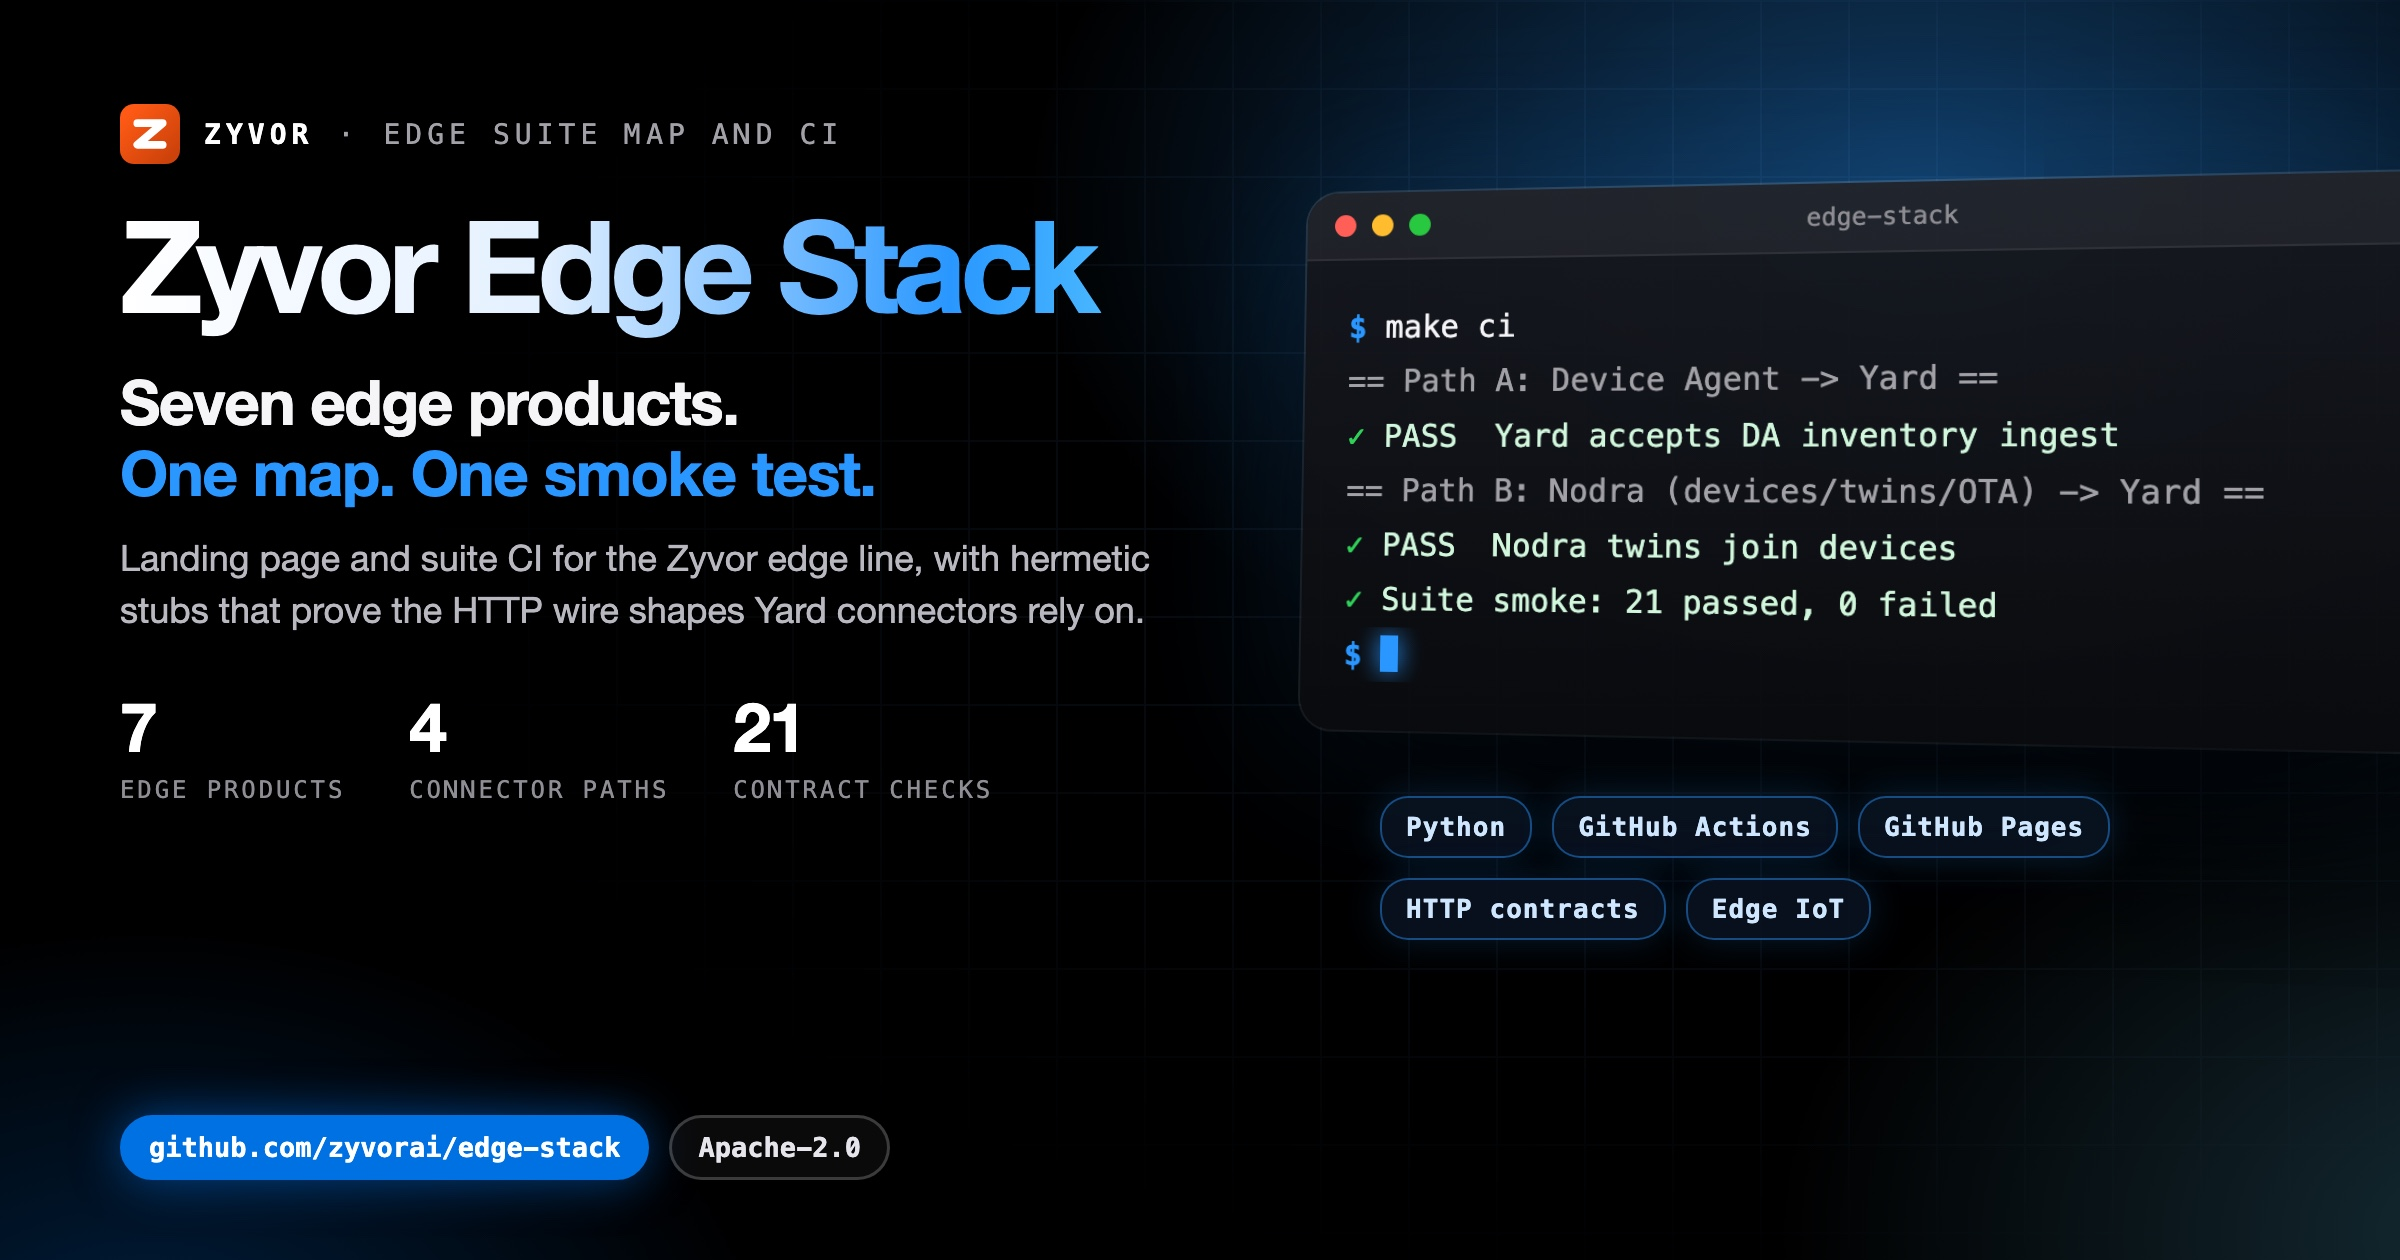
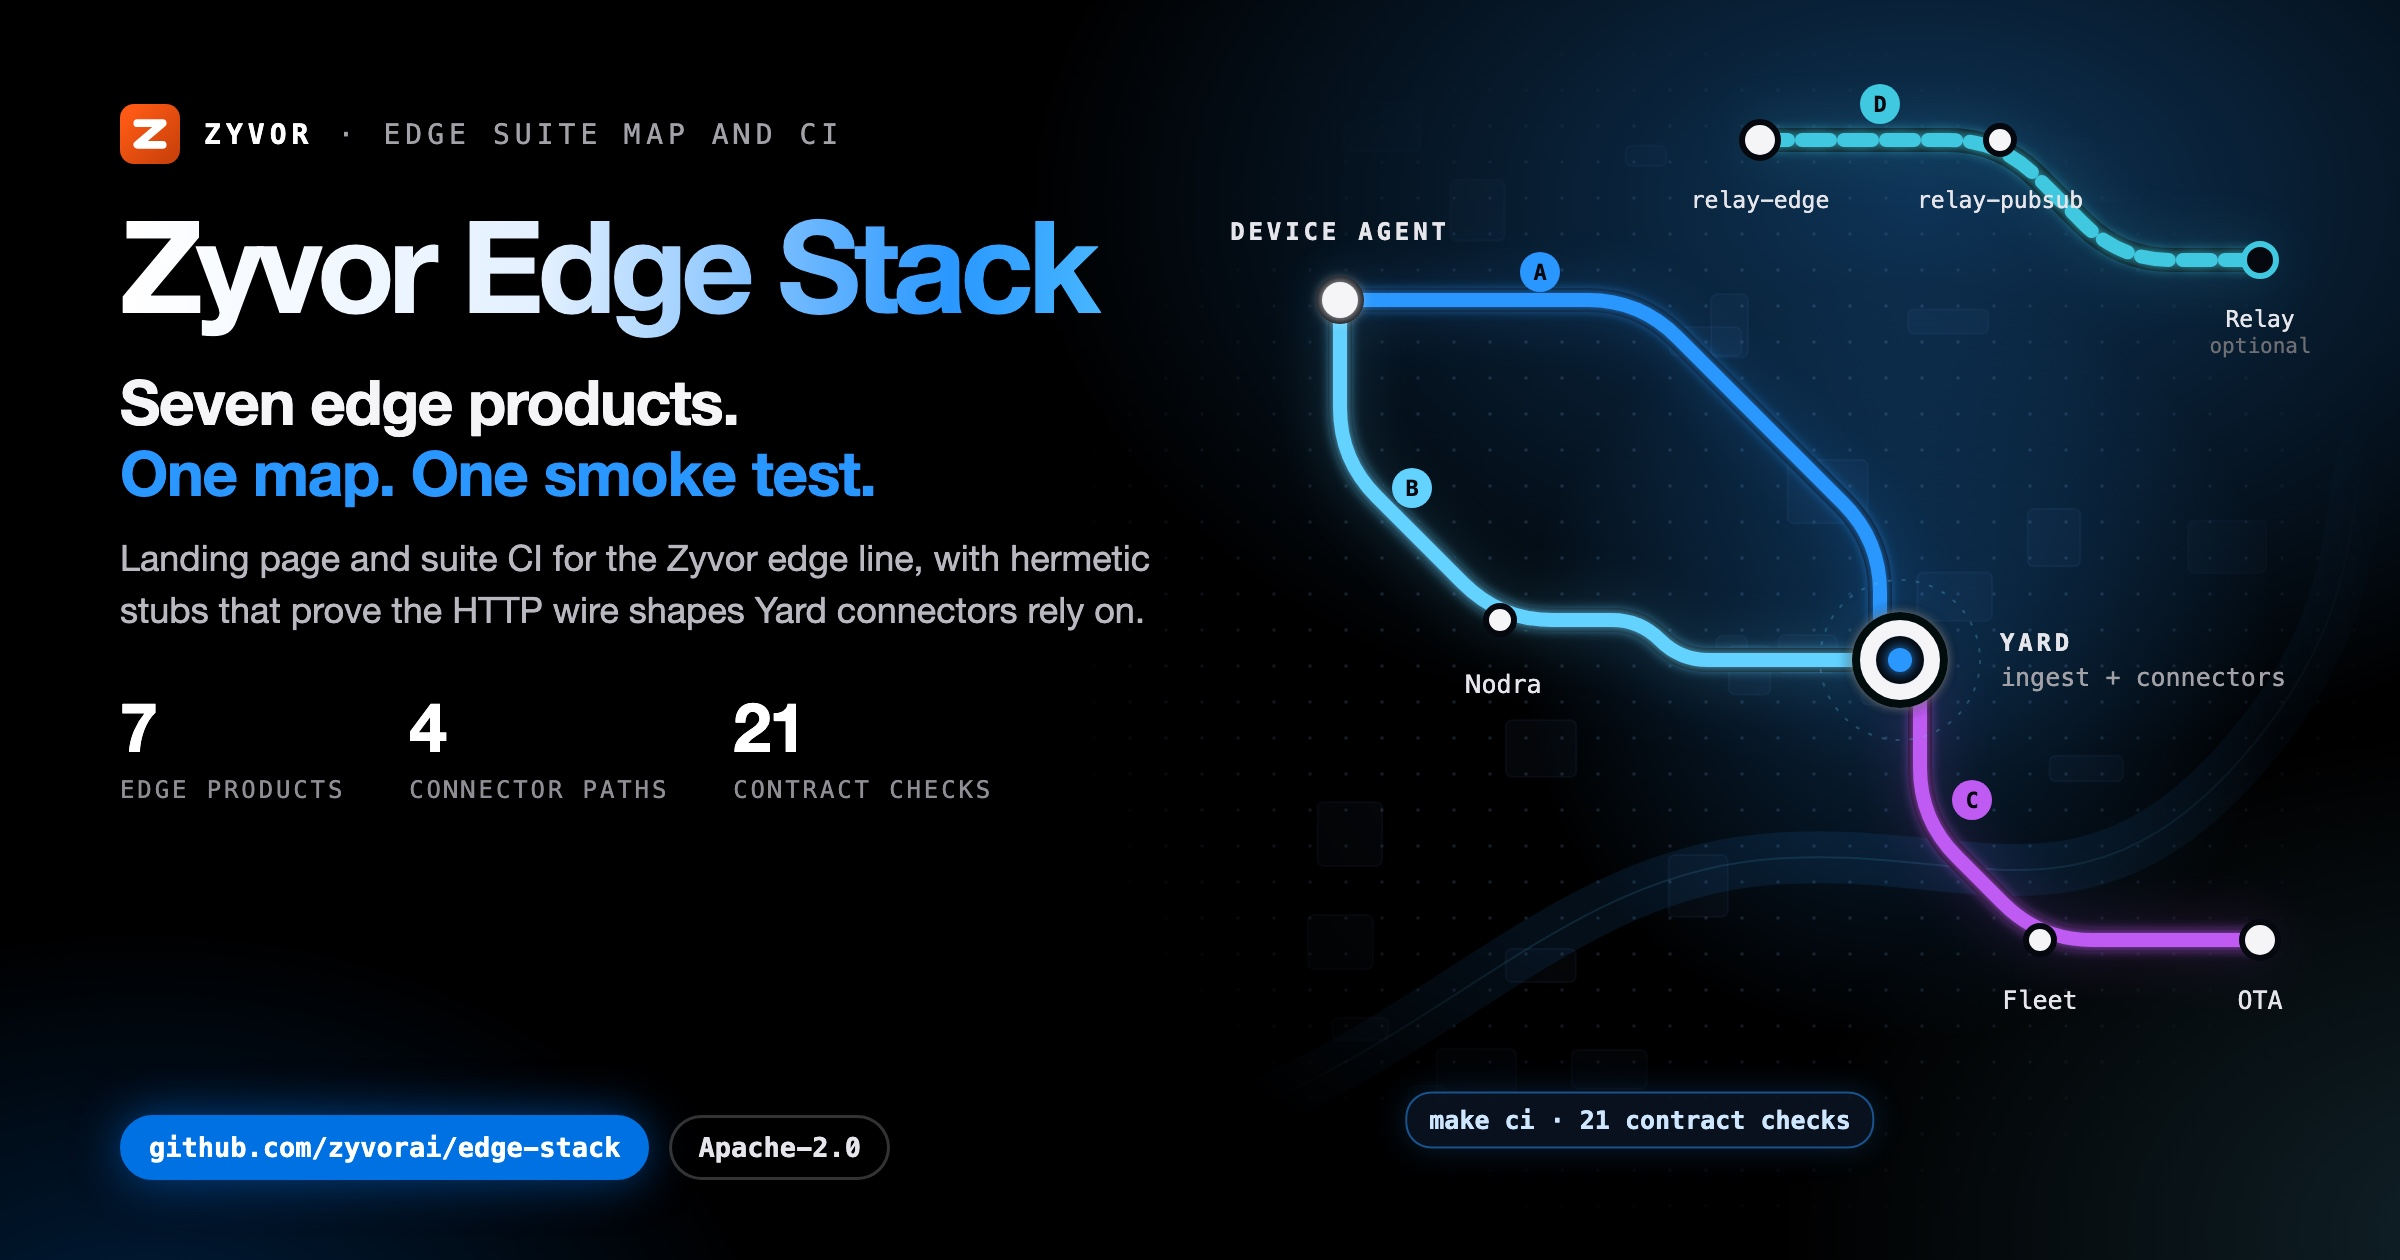
docs(social): unique illustrated hero card
Replace the shared terminal-window art with a motif drawn for this project;
same verified copy and stats on the left.

Changed region(s): [[0.5, 0.0619, 1.0, 0.8048], [0.5625, 0.8357, 0.7812, 0.9286]]

diff --git a/docs/social/edge-stack-hero-dark.html b/docs/social/edge-stack-hero-dark.html
@@ -8,58 +8,47 @@
   Build: ./docs/social/build-hero-dark.sh  ->  edge-stack-hero-dark.jpg (2400x1260)
 -->
 <style>
-  :root { --blue:#0071e3; --signal:#2997ff; --cyan:#64d2ff; --green:#30d158; --amber:#ff9f0a;
+  :root { --blue:#0071e3; --signal:#2997ff; --cyan:#64d2ff; --green:#30d158; --amber:#ff9f0a; --red:#ff453a; --violet:#bf5af2;
     --sans:'SF Pro Display','Helvetica Neue',Helvetica,Arial,sans-serif; --mono:'SF Mono',Menlo,Consolas,monospace; }
   * { box-sizing:border-box; }
   html,body { margin:0; padding:0; }
   body { width:1200px; height:630px; overflow:hidden; color:#f5f5f7; font-family:var(--sans); position:relative; background:#000; }
   .aurora { position:absolute; inset:0;
-    background:radial-gradient(720px 460px at 80% 16%, rgba(41,151,255,.40), transparent 62%),
-               radial-gradient(600px 420px at 104% 98%, rgba(100,210,255,.20), transparent 60%),
+    background:radial-gradient(720px 460px at 80% 16%, rgba(41,151,255,.34), transparent 62%),
+               radial-gradient(600px 420px at 104% 98%, rgba(100,210,255,.16), transparent 60%),
                radial-gradient(520px 380px at 6% 110%, rgba(0,113,227,.28), transparent 60%); }
-  .grid { position:absolute; inset:0; opacity:.09;
-    background-image:linear-gradient(rgba(120,180,255,.9) 1px,transparent 1px),linear-gradient(90deg,rgba(120,180,255,.9) 1px,transparent 1px);
-    background-size:44px 44px; -webkit-mask-image:radial-gradient(900px 520px at 72% 42%, #000 18%, transparent 75%); }
-  .left { position:absolute; left:60px; top:52px; width:560px; z-index:3; }
+  .copy { position:absolute; left:60px; top:52px; width:560px; z-index:3; }
   .brand { display:flex; align-items:center; gap:12px; font-family:var(--mono); font-size:14px; letter-spacing:.18em; text-transform:uppercase; color:#a1a1a6; }
   .brand b { color:#fff; }
   .word { margin:20px 0 0; font-size:64px; line-height:.95; font-weight:800; letter-spacing:-.05em; white-space:nowrap;
     background:linear-gradient(92deg,#fff 0%,#e3f0ff 38%,var(--signal) 74%,var(--cyan) 100%); -webkit-background-clip:text; background-clip:text; color:transparent; padding-bottom:6px; }
   .tag { margin:14px 0 0; font-size:31px; line-height:1.15; font-weight:700; letter-spacing:-.02em; }
   .tag em { font-style:normal; color:var(--signal); }
-  .lede { margin:12px 0 0; font-size:18px; line-height:1.45; color:#b8b8bf; width:520px; }
+  .lede { margin:12px 0 0; font-size:18px; line-height:1.45; color:#b8b8bf; width:520px; text-shadow:0 1px 12px #000; }
   .stats { margin-top:24px; display:flex; gap:32px; }
   .stat b { display:block; font-size:34px; font-weight:800; letter-spacing:-.03em; color:#fff; }
   .stat span { font-family:var(--mono); font-size:12px; letter-spacing:.12em; text-transform:uppercase; color:#8e8e93; }
   .pill { position:absolute; left:60px; bottom:40px; display:flex; gap:10px; z-index:3; }
-  .pill span { font-family:var(--mono); font-size:13.5px; font-weight:700; padding:7px 13px; border-radius:18px; border:1.5px solid rgba(255,255,255,.2); color:#e5e5ea; background:rgba(255,255,255,.04); }
+  .pill span { font-family:var(--mono); font-size:13.5px; font-weight:700; padding:7px 13px; border-radius:18px; border:1.5px solid rgba(255,255,255,.2); color:#e5e5ea; background:rgba(0,0,0,.6); }
   .pill span.b { background:var(--blue); border-color:var(--blue); color:#fff; box-shadow:0 0 24px rgba(0,113,227,.55); }
-
-  .right { position:absolute; left:652px; top:96px; width:560px; z-index:2; }
-  .win { position:relative; width:560px; border-radius:16px; overflow:hidden; z-index:2;
-    background:linear-gradient(180deg, rgba(22,24,30,.94), rgba(10,11,14,.96));
-    box-shadow:0 50px 100px rgba(0,0,0,.75), 0 0 0 1px rgba(255,255,255,.14), 0 0 90px rgba(41,151,255,.22);
-    transform:perspective(1600px) rotateY(-14deg) rotateX(4deg); transform-origin:left center; }
-  .bar { height:34px; display:flex; align-items:center; gap:8px; padding:0 14px; background:rgba(255,255,255,.05); border-bottom:1px solid rgba(255,255,255,.07); }
-  .bar i { width:11px; height:11px; border-radius:50%; background:#ff5f57; } .bar i:nth-child(2){background:#febc2e} .bar i:nth-child(3){background:#28c840}
-  .bar em { margin-left:auto; margin-right:auto; font-style:normal; font-family:var(--mono); font-size:12px; color:#8e8e93; transform:translateX(-24px); }
-  .term { min-height:214px; padding:20px 22px 24px; font-family:var(--mono); font-size:15.5px; line-height:1.75; }
-  .l { white-space:pre; overflow:hidden; text-overflow:ellipsis; color:#f5f5f7; }
-  .l .p { color:var(--signal); font-weight:700; }
-  .l.out { color:#a1a1a6; }
-  .l.cm { color:#6e6e73; }
-  .l.ok { color:#d1f7dc; } .l.ok span { color:var(--green); font-weight:700; }
-  .l.warn { color:#ffe1b0; } .l.warn span { color:var(--amber); font-weight:700; }
-  .cur { display:inline-block; width:9px; height:18px; background:var(--signal); vertical-align:-3px; box-shadow:0 0 12px var(--signal); }
-  .chips { margin:34px 0 0 38px; width:480px; display:flex; flex-wrap:wrap; gap:10px; position:relative; z-index:3; }
-  .chips span { font-family:var(--mono); font-size:13px; font-weight:700; letter-spacing:.04em; padding:7px 12px; border-radius:14px;
-    color:#cfe6ff; background:rgba(10,20,35,.82); border:1px solid rgba(41,151,255,.45); box-shadow:0 0 18px rgba(41,151,255,.18); }
+  .art { position:absolute; left:520px; top:0; width:680px; height:630px; z-index:2; }
+  .art svg { display:block; }
+  #labels { position:absolute; inset:0; z-index:4; pointer-events:none; }
+  .lbl { position:absolute; font-family:var(--mono); font-size:12.5px; color:#a1a1a6; text-align:center; transform:translate(-50%,-50%); white-space:nowrap; }
+  .lbl b { display:block; font-size:12px; letter-spacing:.16em; text-transform:uppercase; color:#e5e5ea; }
+  .lbl span { display:block; margin-top:3px; }
+  .lbl.box { padding:7px 12px; border-radius:12px; background:rgba(8,10,14,.85); border:1px solid rgba(255,255,255,.14); }
+  .lbl.chip { padding:6px 11px; border-radius:13px; font-size:12.5px; font-weight:700; color:#cfe6ff; background:rgba(10,20,35,.85); border:1px solid rgba(41,151,255,.5); box-shadow:0 0 16px rgba(41,151,255,.2); }
+  .lbl.left { transform:translate(0,-50%); text-align:left; }
+  .lbl.right { transform:translate(-100%,-50%); text-align:right; }
+  .ok { color:var(--green) !important; } .warn { color:var(--amber) !important; } .bad { color:var(--red) !important; } .sig { color:var(--signal) !important; } .cy { color:var(--cyan) !important; } .vi { color:var(--violet) !important; }
 </style>
 </head>
 <body>
 <div class="aurora"></div>
-<div class="grid"></div>
-<div class="left">
+<div class="art"><svg id="art" width="680" height="630" viewBox="0 0 680 630" xmlns="http://www.w3.org/2000/svg"></svg></div>
+<div id="labels"></div>
+<div class="copy">
   <div class="brand"><svg viewBox="0 0 64 64" width="30" height="30" aria-hidden="true"><defs><linearGradient id="zb" x1="8" y1="8" x2="56" y2="56" gradientUnits="userSpaceOnUse"><stop offset="0" stop-color="#ff5a15"/><stop offset="1" stop-color="#cc420a"/></linearGradient></defs><rect width="64" height="64" rx="15" fill="url(#zb)"/><path d="M18.5,20.5 45.5,20.5 18.5,43.5 45.5,43.5" fill="none" stroke="#fff" stroke-width="8.3" stroke-linecap="round" stroke-linejoin="round"/></svg><b>Zyvor</b><span>&middot;</span><span>Edge suite map and CI</span></div>
   <div class="word">Zyvor Edge Stack</div>
   <div class="tag">Seven edge products.<br><em>One map. One smoke test.</em></div>
@@ -67,8 +56,113 @@
   <div class="stats"><div class="stat"><b>7</b><span>edge products</span></div><div class="stat"><b>4</b><span>connector paths</span></div><div class="stat"><b>21</b><span>contract checks</span></div></div>
 </div>
 <div class="pill"><span class="b">github.com/zyvorai/edge-stack</span><span>Apache-2.0</span></div>
-<div class="right"><div class="win"><div class="bar"><i></i><i></i><i></i><em>edge-stack</em></div>
-<div class="term"><div class="l"><span class="p">$</span> make ci</div><div class="l out">== Path A: Device Agent -&gt; Yard ==</div><div class="l ok"><span>&#10003;</span> PASS  Yard accepts DA inventory ingest</div><div class="l out">== Path B: Nodra (devices/twins/OTA) -&gt; Yard ==</div><div class="l ok"><span>&#10003;</span> PASS  Nodra twins join devices</div><div class="l ok"><span>&#10003;</span> Suite smoke: 21 passed, 0 failed</div><div class="l"><span class="p">$</span> <i class="cur"></i></div></div></div>
-<div class="chips"><span>Python</span><span>GitHub Actions</span><span>GitHub Pages</span><span>HTTP contracts</span><span>Edge IoT</span></div></div>
+<script>
+var Z = (function () {
+  var NS = 'http://www.w3.org/2000/svg', svg = document.getElementById('art'), labels = document.getElementById('labels');
+  var seed = 20261004;
+  function rnd() { seed = (seed * 1103515245 + 12345) % 2147483648; return seed / 2147483648; }
+  function el(tag, a, parent) { var n = document.createElementNS(NS, tag); for (var k in a) n.setAttribute(k, a[k]); (parent || svg).appendChild(n); return n; }
+  function g(attrs) { return el('g', attrs || {}); }
+  function label(x, y, inner, cls, style) { var d = document.createElement('div'); d.className = 'lbl ' + (cls || ''); d.style.left = (520 + x) + 'px'; d.style.top = y + 'px'; if (style) d.setAttribute('style', d.getAttribute('style') + ';' + style); d.innerHTML = inner; labels.appendChild(d); return d; }
+  return { NS: NS, svg: svg, W: 680, H: 630, rnd: rnd, el: el, g: g, label: label,
+    reseed: function (s) { seed = s; },
+    c: { blue: '#0071e3', signal: '#2997ff', cyan: '#64d2ff', green: '#30d158', amber: '#ff9f0a', red: '#ff453a', violet: '#bf5af2', teal: '#40c8e0', indigo: '#5e5ce6', pink: '#ff375f', white: '#f5f5f7', grey: '#8e8e93' } };
+})();
+(function () {
+// Edge Stack: transit map of the Zyvor edge line. Four connector lines (paths A-D) with Yard as the main interchange.
+var C = Z.c;
+var defs = Z.el('defs', {});
+defs.innerHTML = '<filter id="esGl" filterUnits="userSpaceOnUse" x="-50" y="-50" width="780" height="730"><feGaussianBlur stdDeviation="3.5" result="b"/><feMerge><feMergeNode in="b"/><feMergeNode in="SourceGraphic"/></feMerge></filter>' +
+  '<filter id="esSf" filterUnits="userSpaceOnUse" x="-50" y="-50" width="780" height="730"><feGaussianBlur stdDeviation="14"/></filter>' +
+  '<radialGradient id="esHalo"><stop offset="0" stop-color="#2997ff" stop-opacity=".5"/><stop offset="1" stop-color="#2997ff" stop-opacity="0"/></radialGradient>' +
+  '<pattern id="esDots" width="18" height="18" patternUnits="userSpaceOnUse"><circle cx="9" cy="9" r=".9" fill="rgba(140,190,255,.16)"/></pattern>' +
+  '<radialGradient id="esFade"><stop offset=".55" stop-color="#fff"/><stop offset="1" stop-color="#000"/></radialGradient>' +
+  '<mask id="esMask"><rect x="0" y="0" width="680" height="630" fill="url(#esFade)"/></mask>';
+
+// rounded polyline (metro style corners)
+function route(pts, r) {
+  var d = 'M' + pts[0][0] + ',' + pts[0][1];
+  for (var i = 1; i < pts.length - 1; i++) {
+    var p0 = pts[i - 1], p1 = pts[i], p2 = pts[i + 1];
+    var v1 = [p1[0] - p0[0], p1[1] - p0[1]], v2 = [p2[0] - p1[0], p2[1] - p1[1]];
+    var l1 = Math.sqrt(v1[0] * v1[0] + v1[1] * v1[1]), l2 = Math.sqrt(v2[0] * v2[0] + v2[1] * v2[1]);
+    var rr = Math.min(r, l1 / 2, l2 / 2);
+    var a = [p1[0] - v1[0] / l1 * rr, p1[1] - v1[1] / l1 * rr], b = [p1[0] + v2[0] / l2 * rr, p1[1] + v2[1] / l2 * rr];
+    d += ' L' + a[0].toFixed(1) + ',' + a[1].toFixed(1) + ' Q' + p1[0] + ',' + p1[1] + ' ' + b[0].toFixed(1) + ',' + b[1].toFixed(1);
+  }
+  var e = pts[pts.length - 1];
+  return d + ' L' + e[0] + ',' + e[1];
+}
+
+// map texture: dot grid, a river, district blocks
+var tex = Z.g({ mask: 'url(#esMask)' });
+Z.el('rect', { x: 0, y: 0, width: 680, height: 630, fill: 'url(#esDots)' }, tex);
+Z.el('path', { d: 'M90,560 C200,520 260,440 360,430 S520,470 600,380 S640,230 680,200', fill: 'none', stroke: 'rgba(41,151,255,.10)', 'stroke-width': 26, 'stroke-linecap': 'round' }, tex);
+Z.el('path', { d: 'M90,560 C200,520 260,440 360,430 S520,470 600,380 S640,230 680,200', fill: 'none', stroke: 'rgba(100,210,255,.12)', 'stroke-width': 1 }, tex);
+for (var i = 0; i < 26; i++) {
+  var bx = 110 + Z.rnd() * 520, by = 40 + Z.rnd() * 540;
+  Z.el('rect', { x: bx, y: by, width: 14 + Z.rnd() * 30, height: 10 + Z.rnd() * 22, rx: 3, fill: 'rgba(120,170,255,.035)', stroke: 'rgba(120,170,255,.06)' }, tex);
+}
+Z.el('circle', { cx: 430, cy: 330, r: 190, fill: 'url(#esHalo)', opacity: .5 });
+
+var Y = [430, 330]; // Yard interchange
+var lines = [
+  { id: 'A', c: C.signal, pts: [[150, 150], [300, 150], [420, 270], [420, 322]] },
+  { id: 'B', c: C.cyan, pts: [[150, 150], [150, 230], [230, 310], [300, 310], [320, 330], [412, 330]] },
+  { id: 'C', c: C.violet, pts: [[440, 338], [440, 410], [500, 470], [610, 470]] },
+  { id: 'D', c: C.teal, pts: [[360, 70], [480, 70], [540, 130], [610, 130]], dash: true }
+];
+lines.forEach(function (L) {
+  var d = route(L.pts, 26);
+  Z.el('path', { d: d, fill: 'none', stroke: L.c, 'stroke-width': 16, opacity: .18, filter: 'url(#esSf)', 'stroke-linecap': 'round' });
+  Z.el('path', { d: d, fill: 'none', stroke: '#05080e', 'stroke-width': 12, 'stroke-linecap': 'round', 'stroke-linejoin': 'round' });
+  Z.el('path', { d: d, fill: 'none', stroke: L.c, 'stroke-width': 7, 'stroke-linecap': 'round', 'stroke-linejoin': 'round', 'stroke-dasharray': L.dash ? '14 7' : null, filter: 'url(#esGl)' });
+});
+// short spur: Device Agent <-> Nodra connection is line B; Fleet -> OTA is the end of line C
+
+function station(x, y, big) {
+  Z.el('circle', { cx: x, cy: y, r: big ? 9 : 7, fill: '#f5f5f7', stroke: '#05080e', 'stroke-width': 3 });
+}
+function interchange(x1, y1, x2, y2, w) {
+  Z.el('line', { x1: x1, y1: y1, x2: x2, y2: y2, stroke: '#05080e', 'stroke-width': w + 6, 'stroke-linecap': 'round' });
+  Z.el('line', { x1: x1, y1: y1, x2: x2, y2: y2, stroke: '#f5f5f7', 'stroke-width': w, 'stroke-linecap': 'round', filter: 'url(#esGl)' });
+}
+
+// Yard: big interchange capsule joining A, B, C
+Z.el('circle', { cx: Y[0], cy: Y[1], r: 40, fill: 'none', stroke: 'rgba(100,210,255,.25)', 'stroke-dasharray': '2 5' });
+Z.el('rect', { x: Y[0] - 22, y: Y[1] - 22, width: 44, height: 44, rx: 22, fill: '#f5f5f7', stroke: '#05080e', 'stroke-width': 4, filter: 'url(#esGl)' });
+Z.el('rect', { x: Y[0] - 12, y: Y[1] - 12, width: 24, height: 24, rx: 12, fill: '#05080e' });
+Z.el('circle', { cx: Y[0], cy: Y[1], r: 6, fill: C.signal, filter: 'url(#esGl)' });
+
+interchange(150, 150, 150, 150, 18); // Device Agent (A + B)
+station(230, 310); // Nodra on B
+station(500, 470); // Fleet on C
+station(610, 470, true); // OTA terminus
+station(360, 70, true); // relay-edge
+station(480, 70); // relay-pubsub
+Z.el('circle', { cx: 610, cy: 130, r: 8, fill: '#05080e', stroke: C.teal, 'stroke-width': 3 }); // Relay (optional)
+
+// line roundels
+function roundel(x, y, id, c) {
+  Z.el('circle', { cx: x, cy: y, r: 10, fill: c });
+  var t = Z.el('text', { x: x, y: y + 4, 'text-anchor': 'middle', 'font-family': 'ui-monospace,Menlo,monospace', 'font-size': 11, 'font-weight': 700, fill: '#05080e' });
+  t.textContent = id;
+}
+roundel(250, 136, 'A', C.signal);
+roundel(186, 244, 'B', C.cyan);
+roundel(466, 400, 'C', C.violet);
+roundel(420, 52, 'D', C.teal);
+
+Z.label(150, 116, '<b>Device Agent</b>');
+Z.label(232, 342, 'Nodra', '', 'color:#e5e5ea');
+Z.label(Y[0] + 50, Y[1], '<b>Yard</b><span>ingest + connectors</span>', 'left');
+Z.label(500, 500, 'Fleet', '', 'color:#e5e5ea');
+Z.label(610, 500, 'OTA', '', 'color:#e5e5ea');
+Z.label(360, 100, 'relay-edge', '', 'color:#e5e5ea;font-size:11.5px');
+Z.label(480, 100, 'relay-pubsub', '', 'color:#e5e5ea;font-size:11.5px');
+Z.label(610, 166, 'Relay<span style="margin-top:1px;font-size:10.5px;color:#6e6e73">optional</span>', '', 'font-size:11.5px;color:#e5e5ea');
+Z.label(300, 560, 'make ci &middot; 21 contract checks', 'chip');
+})();
+</script>
 </body>
 </html>
